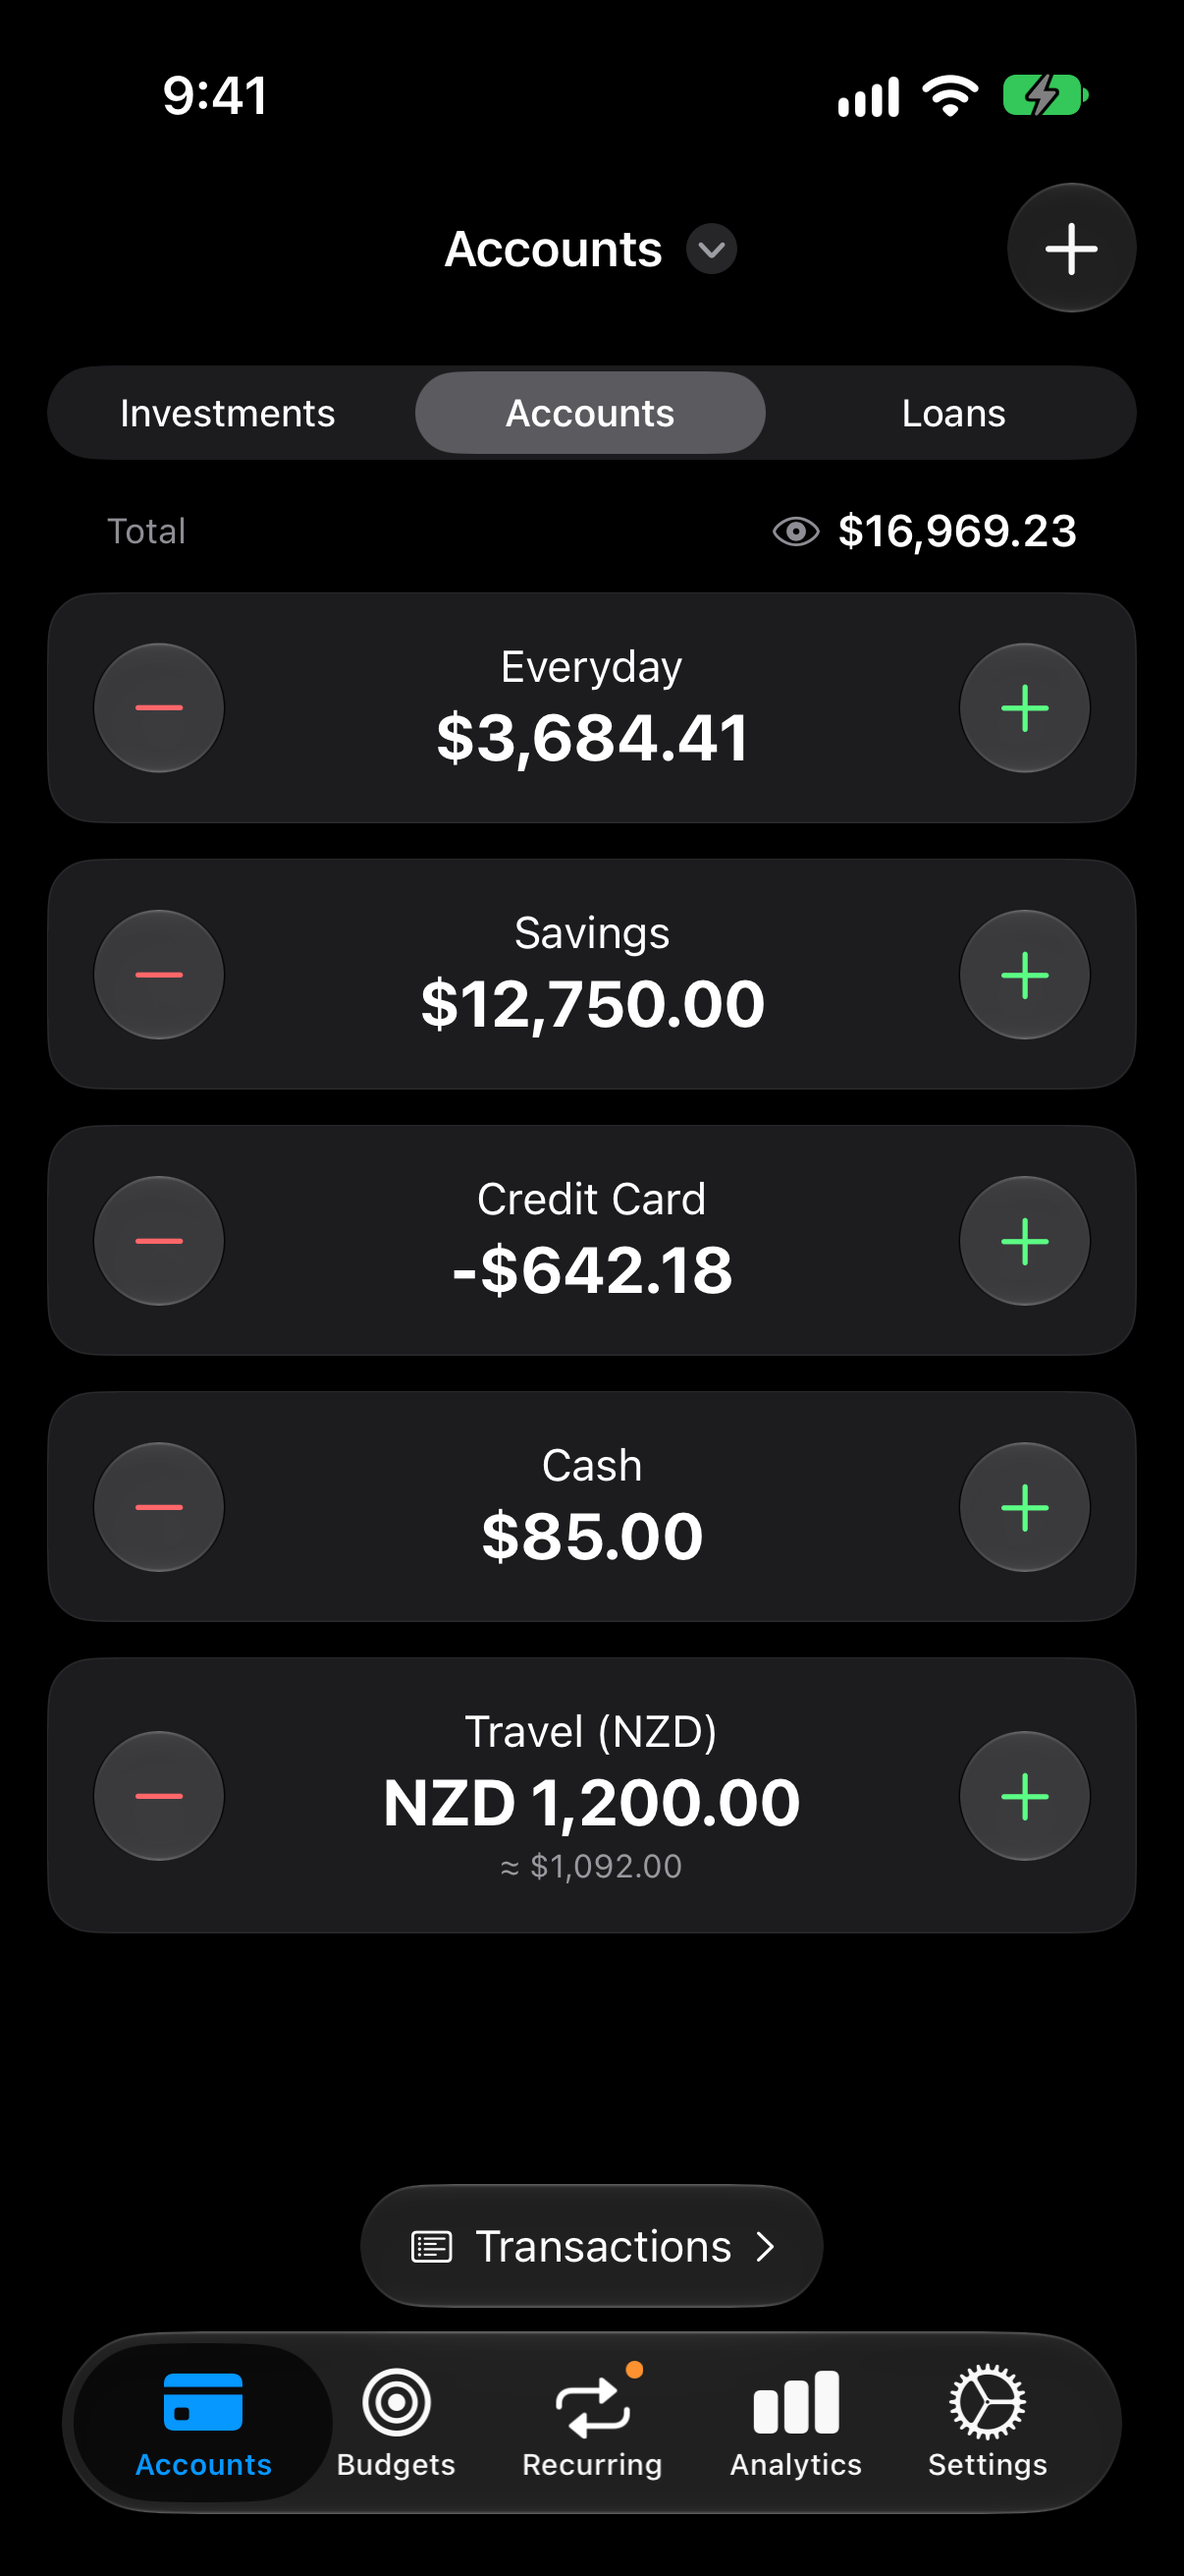
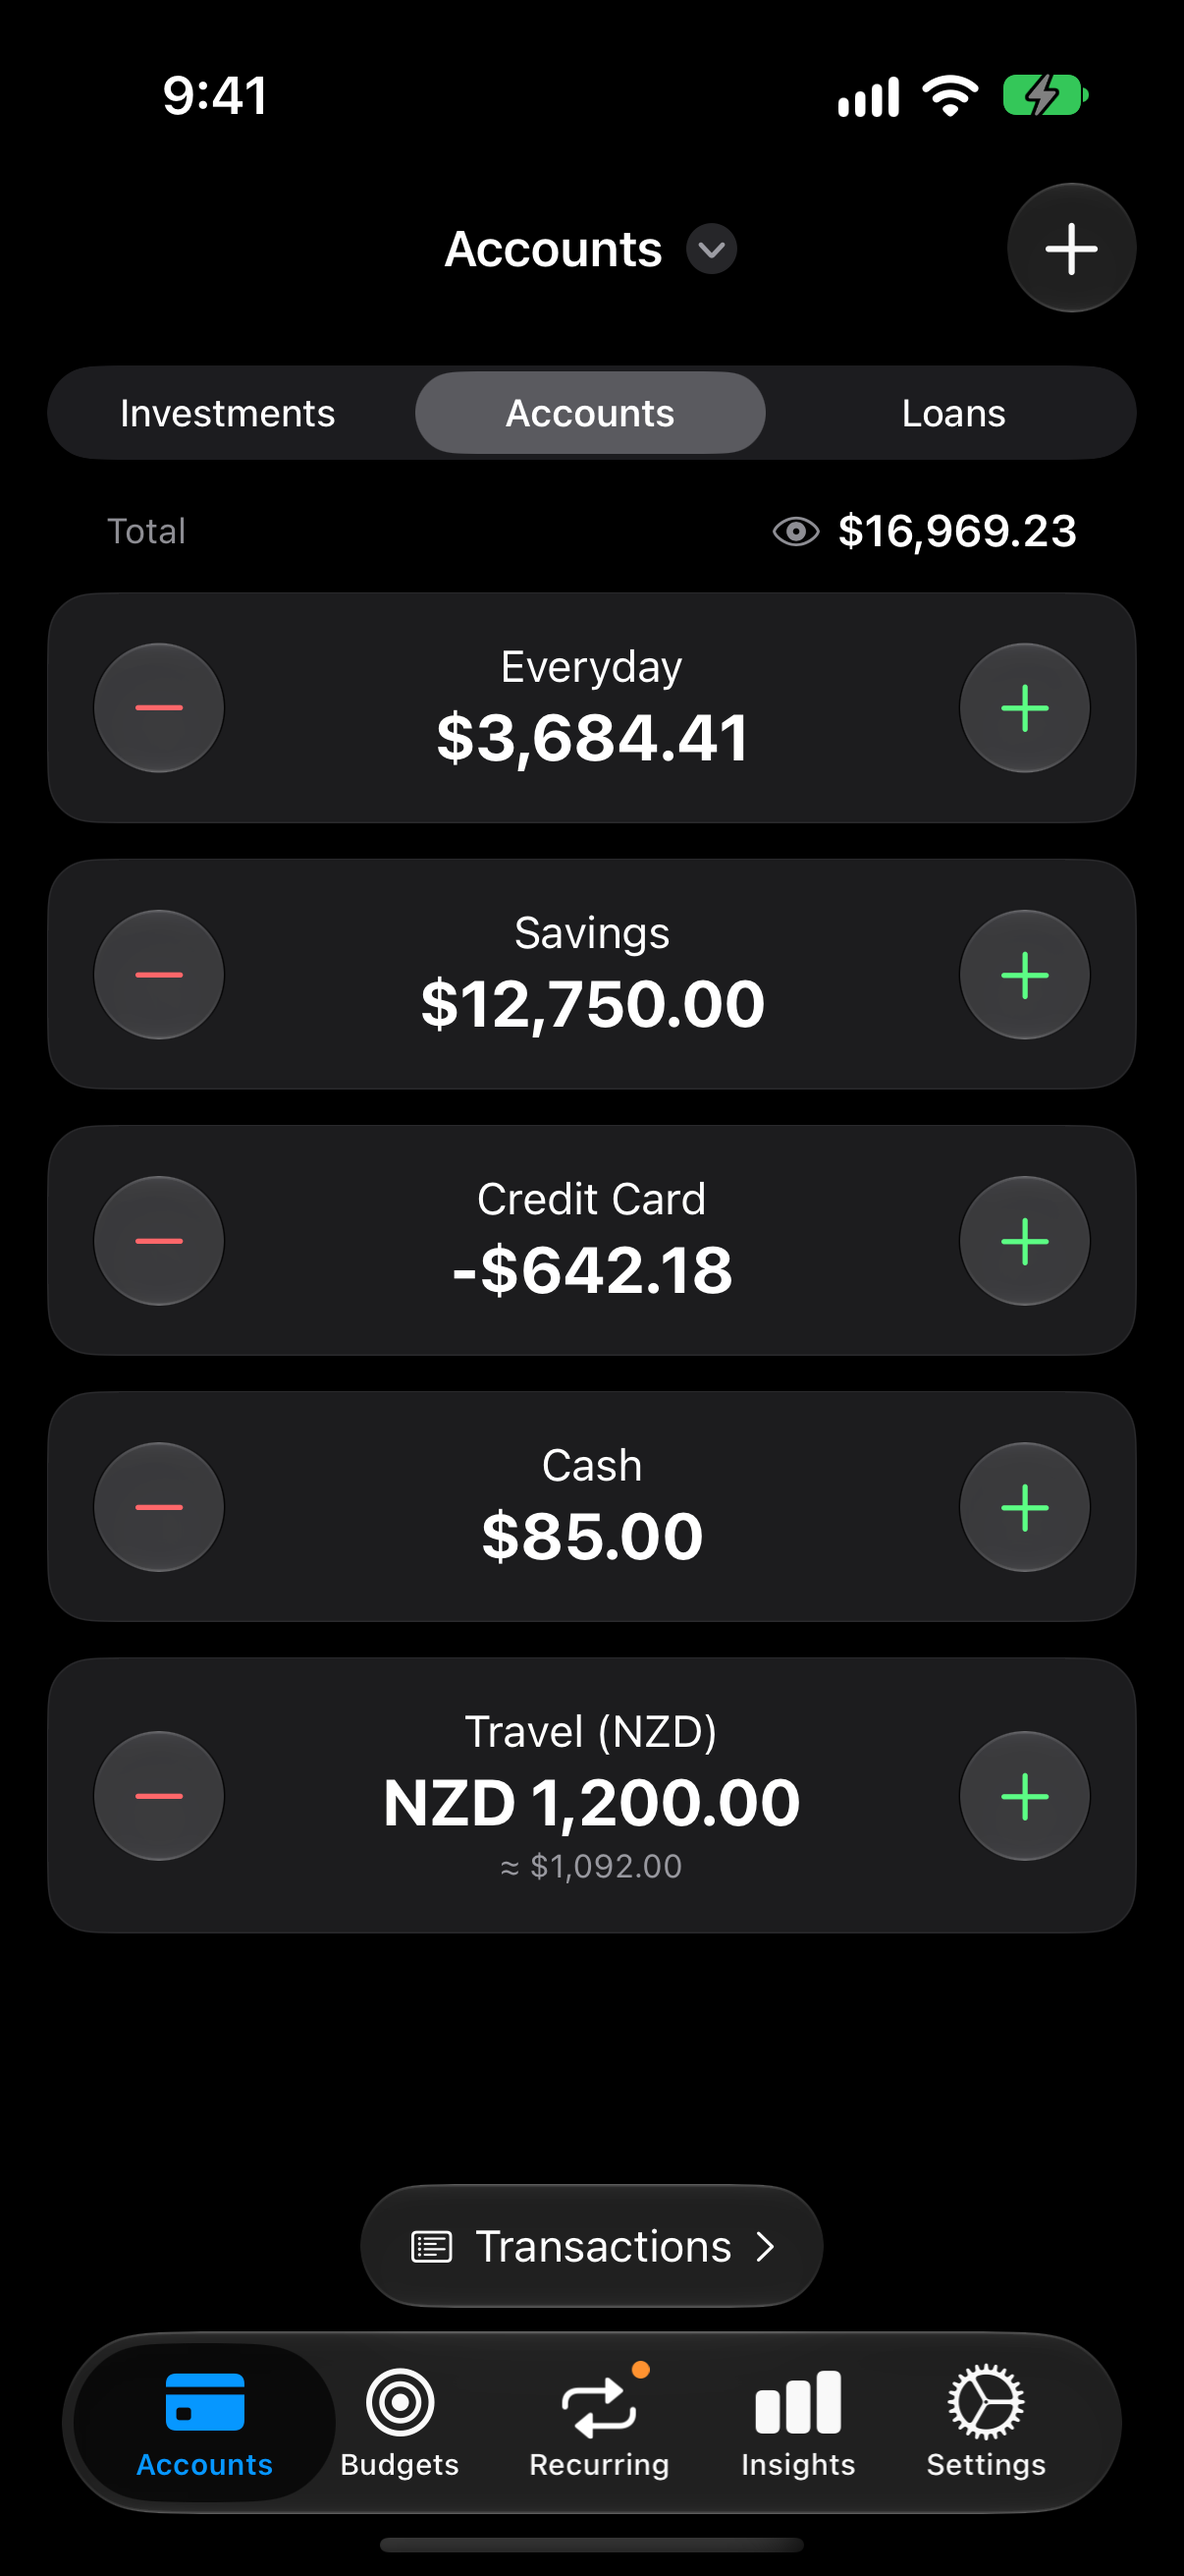
updated

Changed region(s): [[0.3068, 0.9268, 0.7056, 1.0], [0.7977, 0.9268, 0.859, 0.9577]]

diff --git a/index.html b/index.html
@@ -1208,7 +1208,7 @@ footer {
     <div class="hero-phones hero-animate reveal-d2">
       <div class="phone-wrap phone-l"><img src="raw-2.png" alt="Budgets screen" width="800" height="1740" decoding="async" data-lightbox="1" tabindex="0" role="button" aria-label="Open Budgets screenshot preview"></div>
       <div class="phone-wrap phone-c"><img src="raw-1.png" alt="Accounts screen" width="800" height="1740" decoding="async" data-lightbox="0" tabindex="0" role="button" aria-label="Open Accounts screenshot preview"></div>
-      <div class="phone-wrap phone-r"><img src="raw-5.png" alt="Analytics screen" width="800" height="1740" decoding="async" data-lightbox="2" tabindex="0" role="button" aria-label="Open Analytics screenshot preview"></div>
+      <div class="phone-wrap phone-r"><img src="raw-5.png" alt="Insights screen" width="800" height="1740" decoding="async" data-lightbox="2" tabindex="0" role="button" aria-label="Open Insights screenshot preview"></div>
     </div>
   </div>
 </header>
@@ -1247,7 +1247,7 @@ footer {
     <div class="loop-header reveal">
       <p class="section-eyebrow">How BudgetDaily works</p>
       <h2 class="loop-heading">A trusted ledger for<br><em>daily spending decisions.</em></h2>
-      <p class="loop-copy">BudgetDaily is built for people who want deliberate, private control. Keep your real accounts mirrored in the app, log transactions as they happen, and let budgets, recurring commitments, analytics, widgets, and backups work from that source of truth.</p>
+      <p class="loop-copy">BudgetDaily is built for people who want deliberate, private control. Keep your real accounts mirrored in the app, log transactions as they happen, and let budgets, recurring commitments, Insights, widgets, and backups work from that source of truth.</p>
     </div>
 
     <div class="loop-grid">
@@ -1334,16 +1334,16 @@ footer {
     </div>
   </div>
 
-  <!-- Analytics -->
+  <!-- Insights -->
   <div class="showcase-row reveal">
     <div class="showcase-phone">
       <div class="showcase-phone-bg"></div>
-      <img src="raw-5.png" alt="Analytics screen" class="showcase-phone-img" width="800" height="1740" loading="lazy" decoding="async" data-lightbox="2" tabindex="0" role="button" aria-label="Open Analytics screenshot preview">
+      <img src="raw-5.png" alt="Insights screen" class="showcase-phone-img" width="800" height="1740" loading="lazy" decoding="async" data-lightbox="2" tabindex="0" role="button" aria-label="Open Insights screenshot preview">
     </div>
     <div>
-      <p class="showcase-label">Analytics</p>
+      <p class="showcase-label">Insights</p>
       <h2 class="showcase-title">Patterns that<br><em>tell the truth.</em></h2>
-      <p class="showcase-desc">Compare income and expenses, find category and spending trends, understand your Recurring Margin, and look ahead with Cash Projection and Future Transactions. Customise Week, Month, and Year so each view answers the questions you care about. Analytics is included free.</p>
+      <p class="showcase-desc">Compare income and expenses, find category and spending trends, understand your Recurring Margin, and look ahead with Cash Projection and Future Transactions. Customise Week, Month, and Year so each view answers the questions you care about. Insights is included free.</p>
       <div class="feature-pills">
         <span class="pill"><svg viewBox="0 0 24 24"><path d="M18 20V10M12 20V4M6 20v-6"/></svg>Spending trends</span>
         <span class="pill"><svg viewBox="0 0 24 24"><path d="M22 12h-2.48a2 2 0 0 0-1.93 1.46l-2.35 8.36a.5.5 0 0 1-.96 0L9.68 3.18a.5.5 0 0 0-.96 0l-2.35 8.36A2 2 0 0 1 4.44 13H2"/></svg>Recurring Margin</span>
@@ -1494,7 +1494,7 @@ footer {
       </div>
       <div class="feat-cell reveal">
         <div class="feat-icon"><svg viewBox="0 0 24 24"><rect x="3" y="3" width="18" height="18" rx="2"/><path d="M8 12h8M12 8v8"/></svg></div>
-        <h4>Custom Analytics</h4>
+        <h4>Custom Insights</h4>
         <p>Reorder or hide cards independently for Week, Month, and Year views.</p>
       </div>
       <div class="feat-cell reveal reveal-d3">
@@ -1553,7 +1553,7 @@ footer {
   <div class="pricing-inner">
     <p class="section-eyebrow reveal" style="color:oklch(0.45 0.06 145)">Pricing</p>
     <h2 class="section-heading reveal reveal-d1" style="color:var(--text)">Free to start.<br>Pro when you're ready.</h2>
-    <p class="section-sub reveal reveal-d2" style="color:var(--text2)">Analytics is included free. Pro raises the account and budget limits and adds iCloud, account tags, read-only sharing, and widgets.</p>
+    <p class="section-sub reveal reveal-d2" style="color:var(--text2)">Insights is included free. Pro raises the account and budget limits and adds iCloud, account tags, read-only sharing, and widgets.</p>
     <div class="pricing-grid">
       <div class="price-card reveal">
         <p class="price-plan">Free</p>
@@ -1565,7 +1565,7 @@ footer {
           <li><span class="check-icon"><svg viewBox="0 0 24 24"><polyline points="20 6 9 17 4 12"/></svg></span>1 loan &amp; 1 investment account</li>
           <li><span class="check-icon"><svg viewBox="0 0 24 24"><polyline points="20 6 9 17 4 12"/></svg></span>2 budgets</li>
           <li><span class="check-icon"><svg viewBox="0 0 24 24"><polyline points="20 6 9 17 4 12"/></svg></span>Recurring transactions</li>
-          <li><span class="check-icon"><svg viewBox="0 0 24 24"><polyline points="20 6 9 17 4 12"/></svg></span>Analytics &amp; insights</li>
+          <li><span class="check-icon"><svg viewBox="0 0 24 24"><polyline points="20 6 9 17 4 12"/></svg></span>Insights</li>
           <li><span class="check-icon"><svg viewBox="0 0 24 24"><polyline points="20 6 9 17 4 12"/></svg></span>Receipt capture</li>
           <li><span class="check-icon"><svg viewBox="0 0 24 24"><polyline points="20 6 9 17 4 12"/></svg></span>App lock &amp; notifications</li>
           <li><span class="check-icon"><svg viewBox="0 0 24 24"><polyline points="20 6 9 17 4 12"/></svg></span>Local backup &amp; restore</li>
@@ -1650,7 +1650,7 @@ if (!window.matchMedia('(prefers-reduced-motion: reduce)').matches) {
   const allImgs = [
     { src: 'raw-1.png', alt: 'Accounts' },
     { src: 'raw-2.png', alt: 'Budgets' },
-    { src: 'raw-5.png', alt: 'Analytics' },
+    { src: 'raw-5.png', alt: 'Insights' },
     { src: 'raw-4.png', alt: 'Recurring Tracker' },
     { src: 'raw-3.png', alt: 'Spending pace alert' },
     { src: 'raw-6.png', alt: 'Investment tracking' },

diff --git a/getting-started.html b/getting-started.html
@@ -236,7 +236,7 @@ footer {
         <a href="#weekly-review">Weekly review</a>
         <a href="#daily-balance">Today's balance</a>
         <a href="#budgets">Budgets</a>
-        <a href="#analytics">Analytics</a>
+        <a href="#analytics">Insights</a>
         <a href="#grow">Grow into power</a>
         <a href="#tips">Tips &amp; tricks</a>
       </div>
@@ -247,7 +247,7 @@ footer {
       <div class="page-header">
         <p class="page-eyebrow">Getting Started</p>
         <h1 class="page-title">Make the most of BudgetDaily</h1>
-        <p class="page-intro">Start with one account and one budget. That is enough to begin. BudgetDaily requires iOS 26.1 or later. As the habit becomes useful, add recurring bills, one-off projects, analytics, savings goals, widgets, backups, and the deeper tools only when they help. Analytics is included on the free plan.</p>
+        <p class="page-intro">Start with one account and one budget. That is enough to begin. BudgetDaily requires iOS 26.1 or later. As the habit becomes useful, add recurring bills, one-off projects, Insights, savings goals, widgets, backups, and the deeper tools only when they help. Insights is included on the free plan.</p>
       </div>
 
       <!-- SETUP -->
@@ -443,13 +443,13 @@ footer {
 
       <div class="section-divider"></div>
 
-      <!-- ANALYTICS -->
+      <!-- INSIGHTS -->
       <section class="doc-section" id="analytics">
-        <h2>Analytics</h2>
+        <h2>Insights</h2>
         <p class="section-sub">Review the patterns behind the day-to-day decisions</p>
         <div class="tip">
           <div class="tip-dot"></div>
-          <p>Analytics brings together net worth, income vs expenses, spending by category, spending trends, Recurring Margin, Cash Projection, Future Transactions, and savings.</p>
+          <p>Insights brings together net worth, income vs expenses, spending by category, spending trends, Recurring Margin, Cash Projection, Future Transactions, and savings.</p>
         </div>
         <div class="tip">
           <div class="tip-dot"></div>

diff --git a/terms.html b/terms.html
@@ -184,7 +184,7 @@ footer {
   <div class="doc-section" id="s3">
     <h2>3. Subscription Terms</h2>
     <h3>BudgetDaily Pro</h3>
-    <p>BudgetDaily Pro is an auto-renewable monthly subscription. It offers unlimited accounts, loans, investments, and budgets, custom categories, account tags, iCloud Sync, Auto Cloud Backup, read-only shared budgets, and Home Screen Widgets. Analytics is included without Pro. Current pricing is displayed in the App and App Store listing. There is no lifetime purchase.</p>
+    <p>BudgetDaily Pro is an auto-renewable monthly subscription. It offers unlimited accounts, loans, investments, and budgets, custom categories, account tags, iCloud Sync, Auto Cloud Backup, read-only shared budgets, and Home Screen Widgets. Insights is included without Pro. Current pricing is displayed in the App and App Store listing. There is no lifetime purchase.</p>
     <h3>Auto-Renewal</h3>
     <p>Your subscription automatically renews monthly unless cancelled at least 24 hours before the end of the current period. Your Apple ID is charged for renewal within 24 hours before the period ends.</p>
     <h3>Free Trial</h3>
